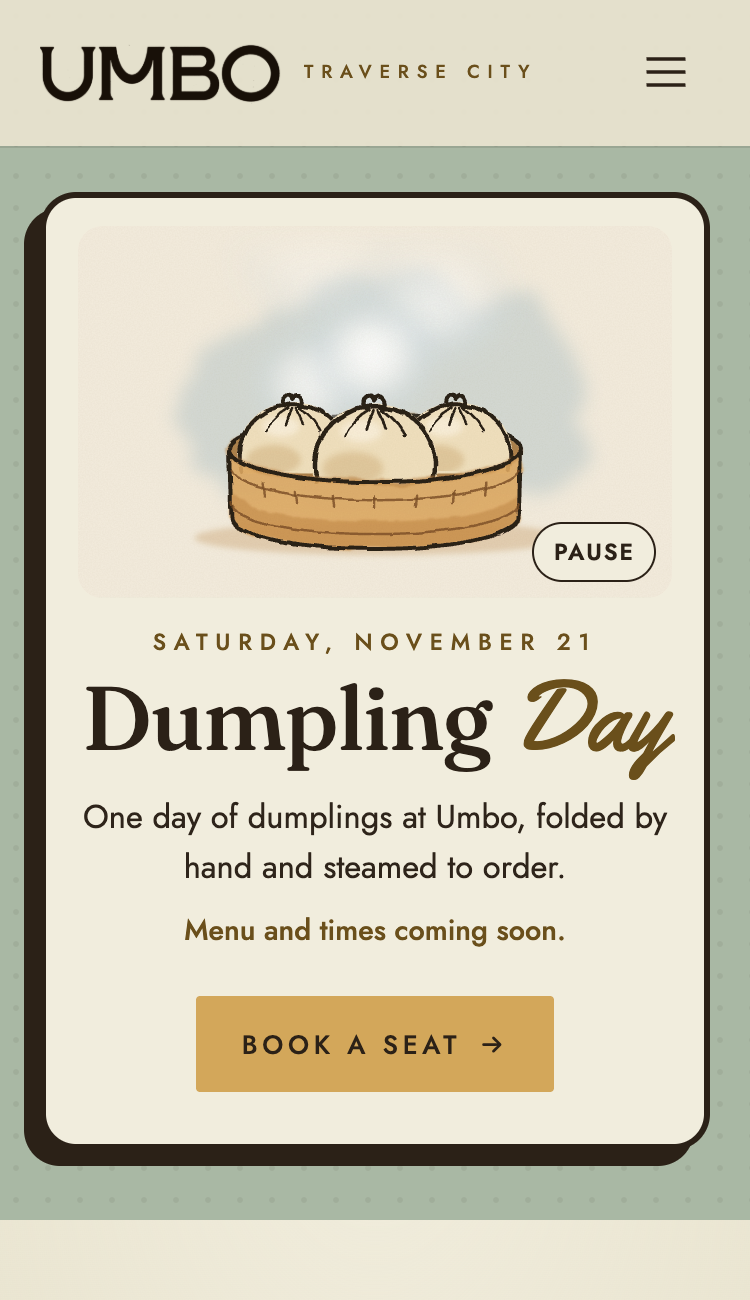
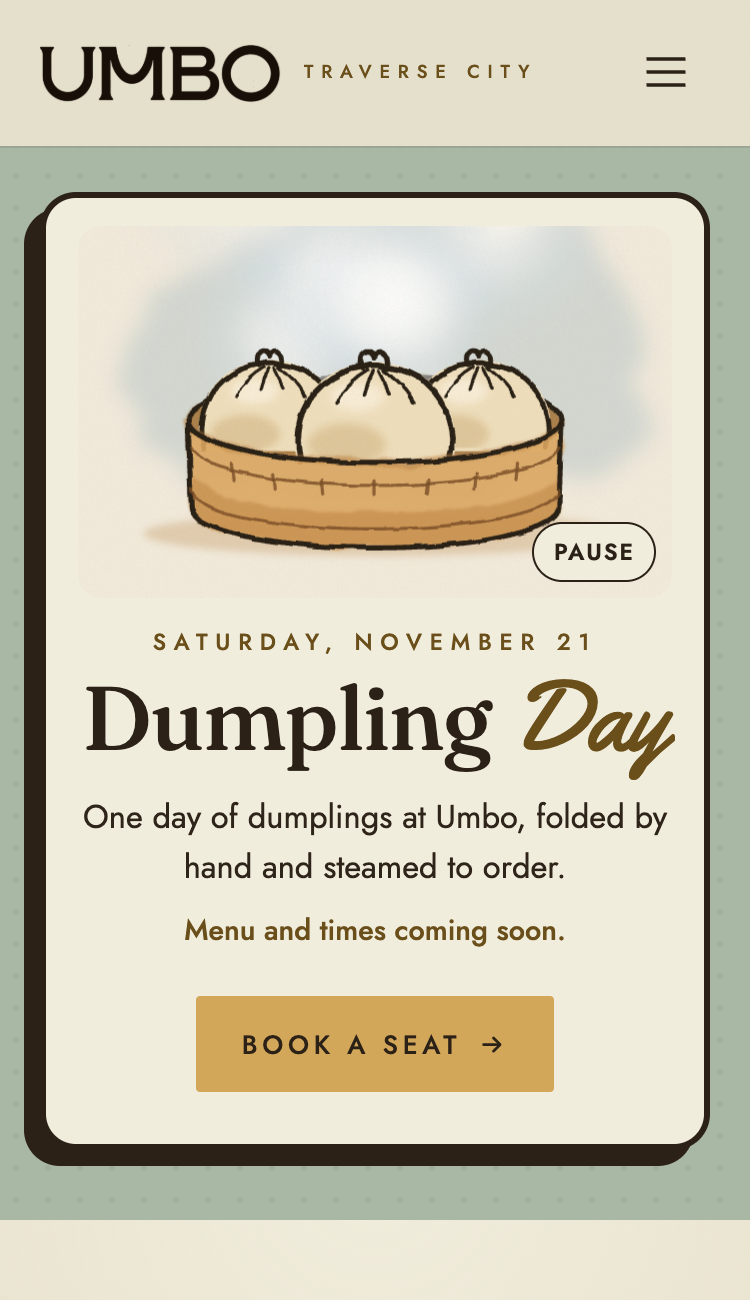
feat: push in on the steamer once the lid is gone
The lid needs headroom at the start, which left the dumplings small in an
empty frame afterward. Everything but the lid now sits in a scene layer
that eases in to 1.28x as the lid clears, so the steamer fills the frame.
The still frame uses the same pushed-in framing. will-change comes off
once the push-in ends so the painted layers re-render sharp.

The steam is fuller too: 13 wisps instead of 9, spread wider, and they
swell larger as they rise.

Changed region(s): [[0.1533, 0.1846, 0.8587, 0.4308]]

diff --git a/assets/js/promo-dumplings.js b/assets/js/promo-dumplings.js
@@ -1,6 +1,7 @@
 /* Dumpling Day promo (11/21/2026): the watercolor steamer in the home-page banner.
    Once, on load: the lid hinges open on its right rim like a clamshell and, without stopping, is carried up
-   and off to the right. Steam then rises from behind the three dumplings, on a loop. Only the lid layer and
+   and off to the right. As it leaves, the view eases in on the steamer, and steam rises from behind the
+   three dumplings, on a loop. Only the lid layer and
    the mist blobs move (transform and opacity), so the painted, filtered artwork is drawn once.
    Needs GSAP (loaded from cdnjs just before this file). With reduced motion, no JS or no GSAP,
    the scene keeps its still frame from promo.css (lid off, a few wisps). */
@@ -12,6 +13,7 @@
 
   var toggle = root.querySelector('.dd__toggle');
   var lid = root.querySelector('.dd-lid');
+  var scene = root.querySelector('.dd-scene');
   var wisps = gsap.utils.toArray(root.querySelectorAll('.dd-mist span'));
 
   gsap.matchMedia().add('(prefers-reduced-motion: no-preference)', function () {
@@ -20,14 +22,18 @@
 
     // Hinge point: the right end of the lid's rim (362, 180 in the 480 x 300 scene).
     gsap.set(lid, { autoAlpha: 1, x: 0, y: 0, rotation: 0, transformOrigin: '75.4% 60%' });
-    gsap.set(wisps, { autoAlpha: 0, x: 0, y: 0, scale: .5 });  // drop the still frame's offsets
+    gsap.set(wisps, { autoAlpha: 0, x: 0, y: 0, scale: .5 });
+    gsap.set(scene, { scale: 1, willChange: 'transform' });  // drop the still frame's offsets
 
     // Two overlapping tweens on different properties: the hinge swing is already under way when the carry
     // starts, and the carry is still accelerating when the swing settles, so the lid never stops.
     var tl = gsap.timeline();
     tl.to(lid, { rotation: 30, duration: 2.2, ease: 'power2.inOut' }, LIFT)
       .to(lid, { xPercent: 62, yPercent: -120, duration: 2.6, ease: 'power2.in' }, LIFT + .9)
-      .set(lid, { autoAlpha: 0 }, LIFT + 3.5);
+      .set(lid, { autoAlpha: 0 }, LIFT + 3.5)
+      // As the lid clears the frame, ease in on the steamer so it and the steam fill the space the lid held.
+      // will-change comes off at the end so the painted layers re-render sharp at the new size.
+      .to(scene, { scale: 1.28, duration: 3.2, ease: 'power2.inOut', onComplete: function () { gsap.set(scene, { willChange: 'auto' }); } }, LIFT + 2.2);
 
     // Mist: each wisp swells as it climbs, sways a little, and thins out to nothing.
     var mist = gsap.timeline({ paused: true });
@@ -35,7 +41,7 @@
       var sway = (i % 2 ? 1 : -1) * gsap.utils.random(8, 22);
       var at = i * CYCLE / wisps.length;
       mist.set(w, { yPercent: 20, xPercent: 0, scale: .5, autoAlpha: 0 }, at).to(w,
-        { keyframes: { yPercent: [20, -40, -110, -190, -290], xPercent: [0, sway * .2, sway * .6, sway, sway * .7], scale: [.5, .8, 1.1, 1.4, 1.8], autoAlpha: [0, 1, .9, .55, 0], easeEach: 'sine.inOut' },
+        { keyframes: { yPercent: [20, -40, -110, -190, -290], xPercent: [0, sway * .2, sway * .6, sway, sway * .7], scale: [.55, .95, 1.3, 1.7, 2.1], autoAlpha: [0, 1, .92, .6, 0], easeEach: 'sine.inOut' },
           duration: CYCLE, ease: 'none', repeat: -1 }, at);
     });
     // Start the mist as the lid cracks open, already mid-cycle so it does not arrive as one puff.

diff --git a/index.html b/index.html
@@ -67,7 +67,9 @@
     <div class="dd__stage">
       <!-- Watercolor scene in layers: the painted back of the steamer, the mist (soft gradient blobs, transform +
            opacity only) so steam rises from behind the dumplings, the dumplings and front wall, then the lid
-           (moves as one composited layer). The painted layers are static and filtered once. -->
+           (moves as one composited layer). The painted layers are static and filtered once. Once the lid is
+           gone, .dd-scene (everything but the lid) pushes in so the steamer fills the frame. -->
+      <div class="dd-scene">
       <svg class="dd-art" viewBox="0 0 480 300" role="img" aria-labelledby="dd-art-title">
         <title id="dd-art-title">A watercolor bamboo steamer with its lid lifted away, three plump soup dumplings inside as steam drifts up.</title>
         <defs>
@@ -108,7 +110,7 @@
         <g class="dd-inkline" filter="url(#dd-ink)"><path d="M122 180A118 27 0 0 1 358 180"/></g>
       </svg>
 
-      <div class="dd-mist" aria-hidden="true"><span></span><span></span><span></span><span></span><span></span><span></span><span></span><span></span><span></span></div>
+      <div class="dd-mist" aria-hidden="true"><span></span><span></span><span></span><span></span><span></span><span></span><span></span><span></span><span></span><span></span><span></span><span></span><span></span></div>
 
       <svg class="dd-art dd-art--front" viewBox="0 0 480 300" aria-hidden="true">
 
@@ -157,6 +159,7 @@
 
         <rect class="dd-paper" width="480" height="300" filter="url(#dd-paper)"/>
       </svg>
+      </div>
 
       <svg class="dd-lid" viewBox="0 0 480 300" aria-hidden="true">
         <g filter="url(#dd-wash)">

diff --git a/assets/css/promo.css b/assets/css/promo.css
@@ -39,6 +39,9 @@
 
 .dd__stage { position: relative; aspect-ratio: 480 / 300; overflow: hidden; border-radius: 12px; }
 .dd-art, .dd-lid { position: absolute; inset: 0; display: block; width: 100%; height: 100%; }
+/* Everything but the lid. Its resting (and still-frame) state is pushed in on the steamer: the lid needs the
+   headroom at the start, the steam fills what is left after. The script starts it at scale 1. */
+.dd-scene { position: absolute; inset: 0; transform: scale(1.28); transform-origin: 50% 88%; }
 .dd-lid { will-change: transform; }
 .dd__toggle {
   position: absolute; right: .5rem; bottom: .5rem; padding: .3rem .6rem; border: 1.5px solid var(--oxblood); border-radius: 999px;
@@ -88,6 +91,8 @@
 .dd-mist span:nth-child(1) { --x: 40%; } .dd-mist span:nth-child(2) { --x: 56%; } .dd-mist span:nth-child(3) { --x: 48%; }
 .dd-mist span:nth-child(4) { --x: 62%; } .dd-mist span:nth-child(5) { --x: 36%; } .dd-mist span:nth-child(6) { --x: 52%; }
 .dd-mist span:nth-child(7) { --x: 44%; } .dd-mist span:nth-child(8) { --x: 58%; } .dd-mist span:nth-child(9) { --x: 50%; }
+.dd-mist span:nth-child(10) { --x: 32%; } .dd-mist span:nth-child(11) { --x: 66%; } .dd-mist span:nth-child(12) { --x: 46%; }
+.dd-mist span:nth-child(13) { --x: 54%; }
 
 /* Still frame (reduced motion, no JS, before the script starts): lid off, three wisps hanging over the steamer. */
 .dd-lid { opacity: 0; visibility: hidden; }
